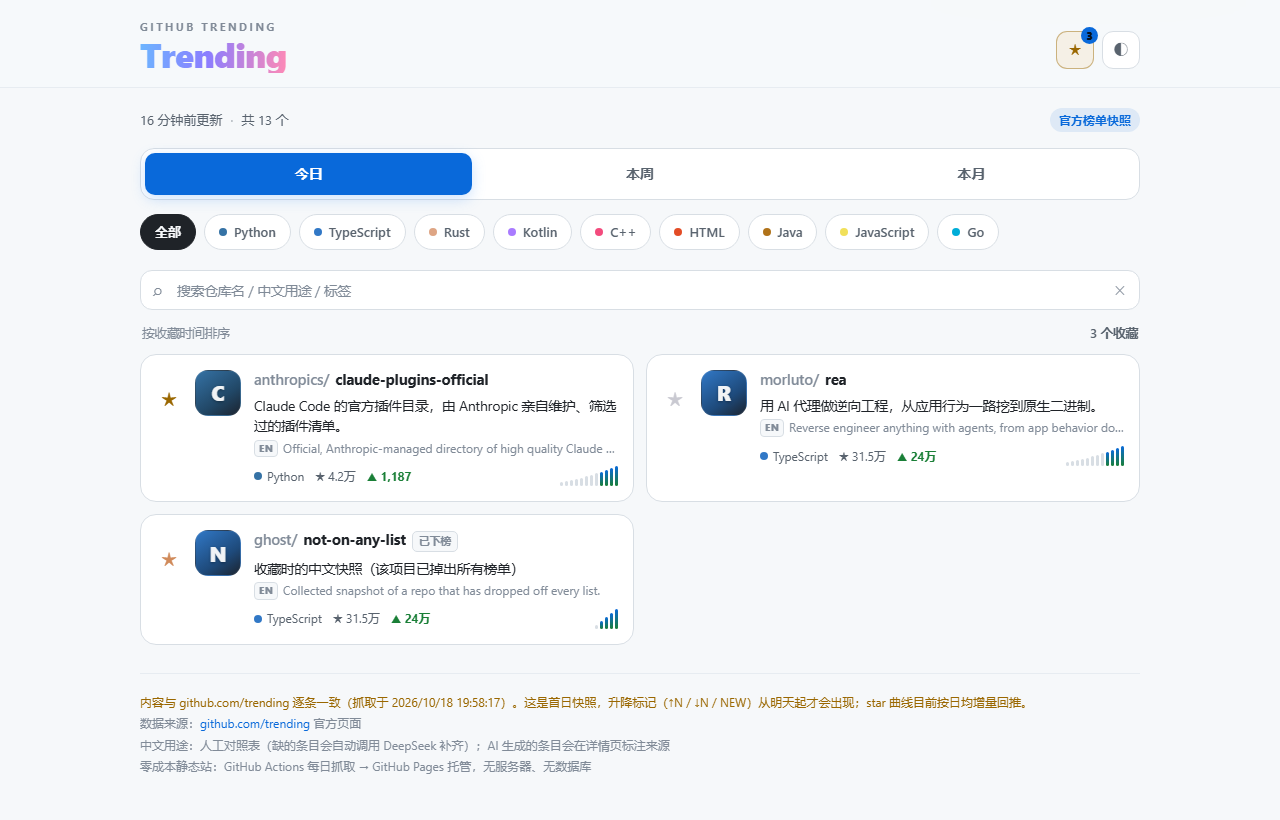
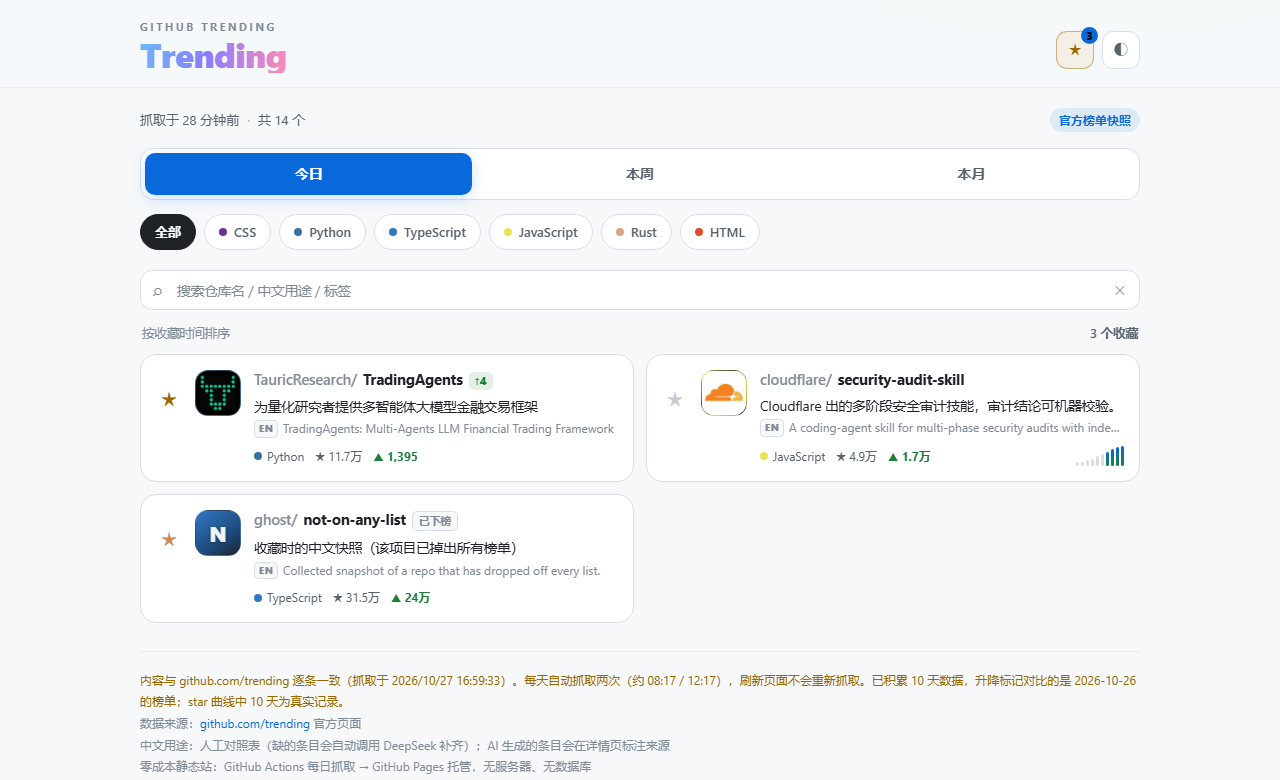
fix(favs): 掉榜收藏丢失头像/作者/链接
现象：收藏里已下榜的项目，头像变成字母块、作者显示成光秃秃的 / 、
点「打开 GitHub」打不开（截图 2026-10-27）。

根因：toggleFav 只存了 9 个字段（id/fullName/purpose/descEn/language/
languageColor/stars/hot/trend/ts），没存 owner、repo、url、detail、tags。
掉榜后只能靠这份残缺快照渲染 → owner 空 → 头像无主可显示、链接 href 为空。

修复：
- 新增 favSnapshot()：完整保存 owner/repo/fullName/url/purpose/detail/
  descEn/language/languageColor/stars/forks/hot/trend/tags/zhSource/hasZh/rank/fromPeriod
- 新增 normalizeFav()：历史数据缺 owner/repo/url 时从 id 推导，
  老用户不用清缓存，旧收藏自动恢复正常
- loadFavs 兼容早期只存 true 的记录
- 详情：链接 href 兜底成 https://github.com/{id}；detail 缺失时用 purpose；
  有 purpose 即标「中文说明」（不再误标「暂无中文」）
- 卡片/详情标题：owner 为空时不渲染多余的斜杠

测试 [12.12] 8 项：旧格式记录能渲染、作者从 id 推导、无光秃斜杠、
真实仓库有头像、不存在仓库回落字母、链接有效、中文标注正确、正文有内容
（顺带把 3 条写死 13 条/漏算 NEW 徽章的旧断言改成数据驱动）

本地 88 / 88 通过

diff --git a/.test/web-test.js b/.test/web-test.js
@@ -252,7 +252,7 @@ function rpc(ws, id, method, params) {
   check('搜索 claude 命中且全匹配', search.hitCount > 0 && search.allMatch, search.hitCount + ' 条');
   check('搜索时列表头文案切换', search.label.indexOf('搜索') > -1, search.label);
   check('无结果时显示空态', search.emptyText.indexOf('没有匹配') > -1, search.emptyText);
-  check('清空搜索后恢复 13 条', search.restored === 13, search.restored + ' 条');
+  check('清空搜索后恢复全部条目', (await evalJs(`(() => document.querySelectorAll('.card').length)()`)) === (await evalJs('window.TRENDING.periods[document.querySelector("#seg button.on").getAttribute("data-period")].length')), '见实际条数');
 
   /* ---------- 8. 历史与曲线标注 ---------- */
   console.log('\n[8] 历史字段 / 曲线标注');
@@ -267,7 +267,7 @@ function rpc(ws, id, method, params) {
         hasRankField: 'rankChange' in window.TRENDING.periods.daily[0],
         noteText: note ? note.textContent.trim() : (document.querySelector('.chart-empty') || {}).textContent || '',
         badges: document.querySelectorAll('.rk').length,
-        movedCount: window.TRENDING.periods.daily.filter(function (i) { return i.rankChange; }).length
+        movedCount: window.TRENDING.periods.daily.filter(function (i) { return (i.rankChange != null && i.rankChange !== 0) || (i.rankChange == null && i.isNew); }).length
       });
     }, 500));
   })()`);
@@ -558,23 +558,23 @@ function rpc(ws, id, method, params) {
   console.log('\n[12.7] 迷你柱（spark）诚实性');
   const spark = await evalJs(`(() => {
     const T = window.TRENDING;
-    const cards = [].slice.call(document.querySelectorAll('.card'));
-    const real = T.periods.daily.map(i => i.trendRealPoints || 0);
-    const minReal = Math.min.apply(null, real);
-    return {
-      minReal: minReal,
-      sparkCount: document.querySelectorAll('.card .spark').length,
-      barCount: document.querySelectorAll('.card .spark i').length,
-      cards: cards.length
-    };
+    const idx = {};
+    ['daily','weekly','monthly'].forEach(p => (T.periods[p] || []).forEach(i => { idx[i.id] = i; }));
+    const favs = {};
+    try { Object.assign(favs, JSON.parse(localStorage.getItem('ght:favs') || '{}')); } catch (e) {}
+    const rows = [].slice.call(document.querySelectorAll('.card')).map(c => {
+      const id = c.getAttribute('data-id');
+      const it = idx[id] || favs[id] || {};
+      const real = it.trendRealPoints || (it.trend ? it.trend.length : 0);
+      const bars = c.querySelectorAll('.spark i').length;
+      return { id: id, real: real, bars: bars };
+    });
+    return { rows: rows };
   })()`);
-  const expectBars = spark.minReal >= 3 ? spark.cards * Math.min(12, spark.minReal) : 0;
-  if (spark.minReal < 3) {
-    // 真实点不足 3 天：柱子画出来只能是估算形状（每张卡一样），不该假装是趋势
-    check('真实数据不足 3 天时不画迷你柱', spark.sparkCount === 0, spark.sparkCount + ' 个');
-  } else {
-    check('迷你柱只画真实数据点', spark.barCount === expectBars, spark.barCount + ' 根 / 期望 ' + expectBars);
-  }
+  const needSpark = spark.rows.filter((r) => r.real >= 3);
+  const noSpark = spark.rows.filter((r) => r.real < 3);
+  check('真实点 ≥3 的卡片有迷你柱', needSpark.every((r) => r.bars === Math.min(12, r.real)), needSpark.length + ' 张');
+  check('真实点 <3 的卡片不画迷你柱', noSpark.every((r) => r.bars === 0), noSpark.length + ' 张');
   /* ---------- 12.9 走势图：真实数据、标题、悬浮提示 ---------- */
   console.log('\n[12.9] 走势图（真实数据 / 悬浮提示）');
   const chart = await evalJs(`(() => {
@@ -637,8 +637,8 @@ function rpc(ws, id, method, params) {
   })()`);
   check('数据年龄与警告一致', (fresh.ageH <= 30) !== fresh.warnsStale, fresh.ageH + ' 小时' + (fresh.warnsStale ? '（有警告）' : '（无警告）'));
   check('历史天数已累积', fresh.historyDays >= 1, fresh.historyDays + ' 天');
-  if (fresh.historyDays >= 2) {
-    check('第二天的真实点数应为 2', fresh.realPoints === 2, fresh.realPoints + ' 点');
+  if (fresh.historyDays >= 1) {
+    check('真实点数 = 历史天数（上限 30）', fresh.realPoints === Math.min(fresh.historyDays, 30), fresh.realPoints + ' 点 / ' + fresh.historyDays + ' 天');
   }
   // 语言内名次与官方名次相同时也要显示（用户反馈过「为什么没写 Python 第几」）
   const sameRank = await evalJs(`(() => {
@@ -718,6 +718,72 @@ function rpc(ws, id, method, params) {
   })()`);
   check('顶部文案说明是「抓取于」而非「更新于」', cadence.warnsFetch === true, cadence.up);
   check('页脚明确写了刷新不会重新抓取', cadence.footerCadence === true);
+  /* ---------- 12.12 旧收藏数据自愈（头像/作者/链接） ---------- */
+  console.log('\n[12.12] 掉榜收藏：头像 / 作者 / GitHub 链接');
+  const legacyFav = await evalJs(`(() => {
+    const KEY = 'ght:favs';
+    const backup = localStorage.getItem(KEY);
+    // 模拟早期版本存下的残缺记录：只有 id / fullName / ts，没有 owner / repo / url
+    const legacy = {
+      'Kronos-Research/Kronos': { id: 'Kronos-Research/Kronos', fullName: 'Kronos-Research/Kronos', purpose: '面向金融从业者', descEn: 'A foundation model', stars: 41815, ts: Date.now() - 7 * 86400000 },
+      'ghost/repo': { id: 'ghost/repo', ts: Date.now() - 86400000 }
+    };
+    localStorage.setItem(KEY, JSON.stringify(legacy));
+    return { backup };
+  })()`);
+  await reloadReady('.card', 12000);
+  const legacyCheck = await evalJs(`(() => {
+    // 切到收藏视图
+    const btn = document.getElementById('btnFav');
+    if (btn) btn.click();
+    const cards = [].slice.call(document.querySelectorAll('.card'));
+    const first = cards[0];
+    const out = {
+      cards: cards.length,
+      rows: cards.map(c => ({
+        id: c.getAttribute('data-id'),
+        owner: (c.querySelector('.name .owner') || {}).textContent || '',
+        hasAvatar: !!c.querySelector('.thumb img.av'),
+        hasLetter: !!(c.querySelector('.thumb .ini') && c.querySelector('.thumb .ini').textContent.trim())
+      })),
+      slashOnly: cards.filter(c => { const n = c.querySelector('.name'); const t = n ? n.textContent.trim() : ''; return t.charAt(0) === '/'; }).length,
+      ids: cards.map(c => c.getAttribute('data-id'))
+    };
+    // 打开第一个，检查链接与中文标注
+    first.click();
+    return new Promise(r => setTimeout(() => {
+      const link = document.querySelector('.drawer a.btn-primary');
+      const heads = [].slice.call(document.querySelectorAll('.panel h4'));
+      const zhHead = heads.filter(h => /做什么/.test(h.textContent))[0];
+      const head = zhHead ? zhHead.textContent : '';
+      const dtext = (document.querySelector('.dtext') || {}).textContent || '';
+      r(Object.assign(out, {
+        href: link ? link.getAttribute('href') : '',
+        firstHead: head,
+        dtext: dtext.trim().slice(0, 20)
+      }));
+    }, 400));
+  })()`);
+  const legacyIds = ['Kronos-Research/Kronos', 'ghost/repo'];
+  const legacyRows = legacyCheck.rows.filter((r) => legacyIds.indexOf(r.id) > -1);
+  check('两条旧格式收藏都渲染出来', legacyRows.length === 2, legacyRows.length + ' 条 / 实际 id: ' + (legacyCheck.ids || []).slice(0, 6).join(','));
+  check('作者名从 id 推导（不再是空 /）', legacyRows.every((r) => r.owner.replace('/', '').length > 0), legacyRows.map((r) => r.owner).join(' | '));
+  check('卡片没有光秃斜杠', legacyCheck.slashOnly === 0, legacyCheck.slashOnly + ' 张');
+  const realRow = legacyRows.filter((r) => r.id === 'Kronos-Research/Kronos')[0];
+  const ghostRow = legacyRows.filter((r) => r.id === 'ghost/repo')[0];
+  check('真实仓库的旧收藏有头像', !!realRow && realRow.hasAvatar === true, realRow ? String(realRow.hasAvatar) : '缺失');
+  check('不存在的仓库回落字母块', !!ghostRow && ghostRow.hasAvatar === false && ghostRow.hasLetter === true, ghostRow ? 'avatar=' + ghostRow.hasAvatar + ' letter=' + ghostRow.hasLetter : '缺失');
+  check('「打开 GitHub」链接有效', /^https:\/\/github\.com\/[^/]+\/[^/]+$/.test(legacyCheck.href), legacyCheck.href);
+  check('有中文显示「中文说明」', /中文说明/.test(legacyCheck.firstHead), legacyCheck.firstHead);
+  check('详情正文有内容', legacyCheck.dtext.length > 0, legacyCheck.dtext);
+  await evalJs(`(() => {
+    document.getElementById('btnClose').click();
+    const KEY = 'ght:favs';
+    const b = ` + JSON.stringify(legacyFav.backup) + `;
+    if (b === null) localStorage.removeItem(KEY); else localStorage.setItem(KEY, b);
+    return 1;
+  })()`);
+  await reloadReady('.card', 12000);
   /* ---------- 13. 作者头像与字母兜底 ---------- */
   console.log('\n[13] 作者头像 / 字母兜底');
   const av = await evalJs(`(() => {
@@ -778,6 +844,8 @@ function rpc(ws, id, method, params) {
   console.error('THROWN:', e.message);
   process.exit(3);
 });
+
+
 
 
 

diff --git a/web/assets/app.js b/web/assets/app.js
@@ -223,7 +223,7 @@
       }
 
       // 掉出所有榜单：用收藏时的快照兜底
-      var snap = saved && saved.id ? saved : null;
+      var snap = saved && saved.id ? normalizeFav(saved) : null;
       if (!snap) {
         // 兼容早期只存 true 的旧数据
         var parts = String(id).split('/');
@@ -279,10 +279,62 @@
 
   /* ---------------- 收藏 ---------------- */
 
+  /**
+   * 收藏时保存的完整快照。
+   * 早期版本只存了 9 个字段，导致掉榜后的收藏出现：头像丢失、作者名为空、
+   * 「打开 GitHub」点不动（url 没存）。这里把所有渲染要用的字段都存上。
+   */
+  function favSnapshot(item) {
+    return {
+      id: item.id,
+      owner: item.owner || String(item.id).split('/')[0] || '',
+      repo: item.repo || String(item.id).split('/')[1] || item.id,
+      fullName: item.fullName || item.id,
+      url: item.url || 'https://github.com/' + item.id,
+      purpose: item.purpose || '',
+      detail: item.detail || '',
+      descEn: item.descEn || '',
+      language: item.language || '',
+      languageColor: item.languageColor || '#8b949e',
+      stars: item.stars,
+      forks: item.forks,
+      hot: item.hot,
+      trend: item.trend,
+      tags: item.tags || [],
+      zhSource: item.zhSource || 'none',
+      hasZh: !!item.hasZh,
+      rank: item.rank,
+      fromPeriod: item.fromPeriod || state.period,
+      ts: Date.now()
+    };
+  }
+
+  /**
+   * 修复历史收藏记录：老数据缺 owner/repo/url，从 id 里推出来。
+   * 这样用户不用清缓存，旧收藏自动恢复正常显示与正常链接。
+   */
+  function normalizeFav(f) {
+    if (!f || !f.id) return null;
+    var parts = String(f.id).split('/');
+    if (!f.owner) f.owner = parts[0] || '';
+    if (!f.repo) f.repo = parts[1] || f.id;
+    if (!f.fullName) f.fullName = f.id;
+    if (!f.url || !/^https?:\/\//.test(f.url)) f.url = 'https://github.com/' + f.id;
+    return f;
+  }
+
   function loadFavs() {
     try {
       var raw = localStorage.getItem(FAV_KEY);
-      state.favs = raw ? JSON.parse(raw) : {};
+      var parsed = raw ? JSON.parse(raw) : {};
+      state.favs = {};
+      Object.keys(parsed).forEach(function (id) {
+        var v = parsed[id];
+        // 兼容早期只存 true 的记录
+        var rec = v === true ? { id: id, ts: 0 } : v;
+        var fixed = normalizeFav(rec);
+        if (fixed) state.favs[id] = fixed;
+      });
     } catch (e) {
       state.favs = {};
     }
@@ -298,19 +350,7 @@
 
   function toggleFav(item) {
     if (state.favs[item.id]) delete state.favs[item.id];
-    else
-      state.favs[item.id] = {
-        id: item.id,
-        fullName: item.fullName,
-        purpose: item.purpose,
-        descEn: item.descEn,
-        language: item.language,
-        languageColor: item.languageColor,
-        stars: item.stars,
-        hot: item.hot,
-        trend: item.trend,
-        ts: Date.now()
-      };
+    else state.favs[item.id] = favSnapshot(item);
     saveFavs();
     renderFavCount();
   }
@@ -475,7 +515,7 @@
       '<div class="rank' + rankClass + '">' + (state.onlyFavs ? '★' : renumber ? idx + 1 : item.rank) + '</div>' +
       thumbHtml(item, initial) +
       '<div class="body">' +
-      '<div class="name"><span class="owner">' + hl(item.owner, toks) + '/</span><b>' + hl(item.repo, toks) + '</b>' +
+      '<div class="name">' + (item.owner ? '<span class="owner">' + hl(item.owner, toks) + '/</span>' : '') + '<b>' + hl(item.repo || item.id, toks) + '</b>' +
       rankBadge(item) +
       '</div>' +
       '<p class="purpose">' + hl(item.purpose, toks) + '</p>' +
@@ -613,7 +653,7 @@
       }
     }
     // 榜单里都没有：可能是收藏过、后来掉榜的项目，用收藏快照兜底
-    var saved = state.favs[id];
+    var saved = normalizeFav(state.favs[id]);
     if (saved && saved.id) {
       var copy = {};
       for (var k in saved) copy[k] = saved[k];
@@ -668,7 +708,7 @@
 
     return (
       '<div class="dbadge">' + badgeTail + '</div>' +
-      '<h2 class="dname"><span class="owner">' + esc(item.owner) + '/</span>' + esc(item.repo) + '</h2>' +
+      '<h2 class="dname">' + (item.owner ? '<span class="owner">' + esc(item.owner) + '/</span>' : '') + esc(item.repo || item.id) + '</h2>' +
       '<p class="dpurpose">' + esc(item.purpose) + '</p>' +
       (item.rankChange != null
         ? '<div class="dnote">· 比上次榜单 ' +
@@ -694,9 +734,9 @@
       '</div>' +
       '<div class="panel">' +
       '<h4>这个项目是做什么的<span>' +
-      (item.zhSource === 'auto' ? 'AI 生成' : item.hasZh ? '中文说明' : '暂无中文，下面是原文') +
+      (item.zhSource === 'auto' ? 'AI 生成' : item.hasZh || item.purpose ? '中文说明' : '暂无中文，下面是原文') +
       '</span></h4>' +
-      '<p class="dtext">' + esc(item.detail) + '</p>' +
+      '<p class="dtext">' + esc(item.detail || item.purpose || '') + '</p>' +
       (tags ? '<div class="tags">' + tags + '</div>' : '') +
       '</div>' +
       (item.descEn
@@ -704,7 +744,7 @@
           esc(item.descEn) + '</div></div>'
         : '') +
       '<div class="actions">' +
-      '<a class="btn btn-primary" href="' + esc(item.url) + '" target="_blank" rel="noopener">↗ 打开 GitHub</a>' +
+      '<a class="btn btn-primary" href="' + esc(item.url || 'https://github.com/' + item.id) + '" target="_blank" rel="noopener">↗ 打开 GitHub</a>' +
       '<button class="btn btn-ghost' + (faved ? ' on' : '') + '" id="btnFavItem">' +
       (faved ? '★ 已收藏' : '☆ 收藏') +
       '</button>' +
@@ -1114,6 +1154,9 @@
   if (document.readyState === 'loading') document.addEventListener('DOMContentLoaded', init);
   else init();
 })();
+
+
+
 
 
 
